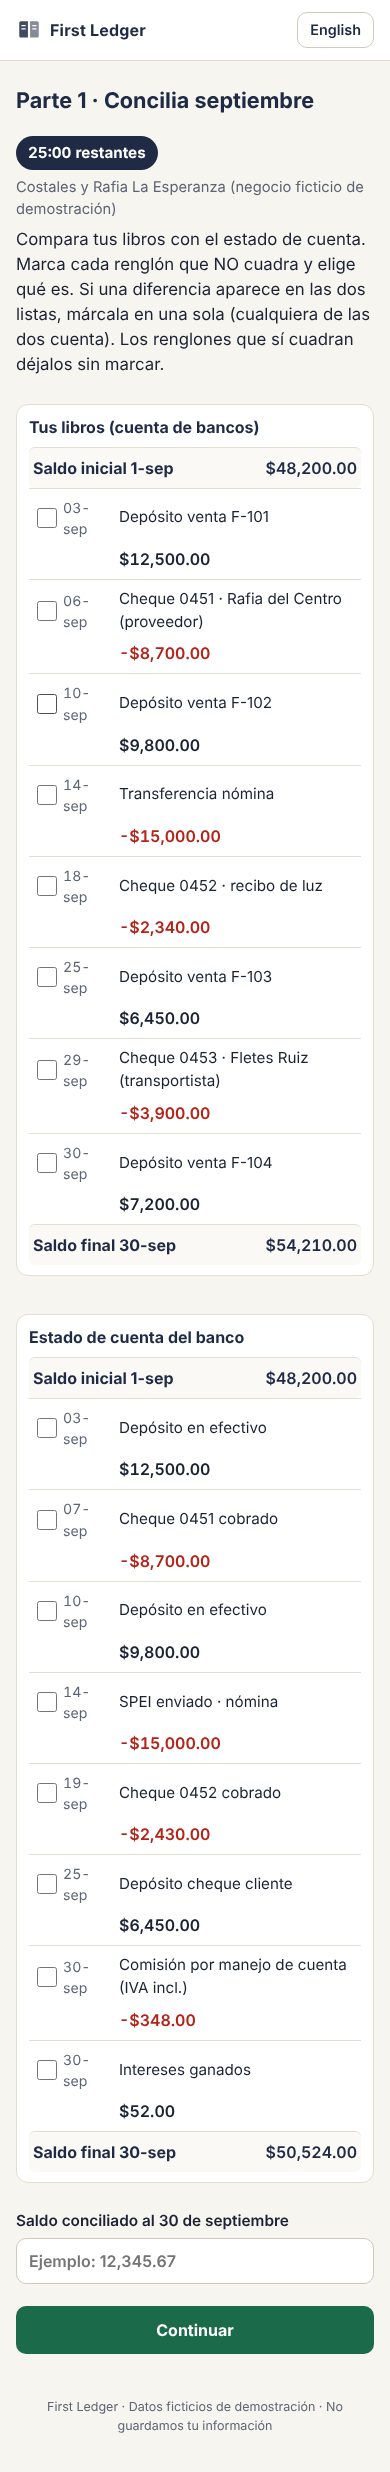
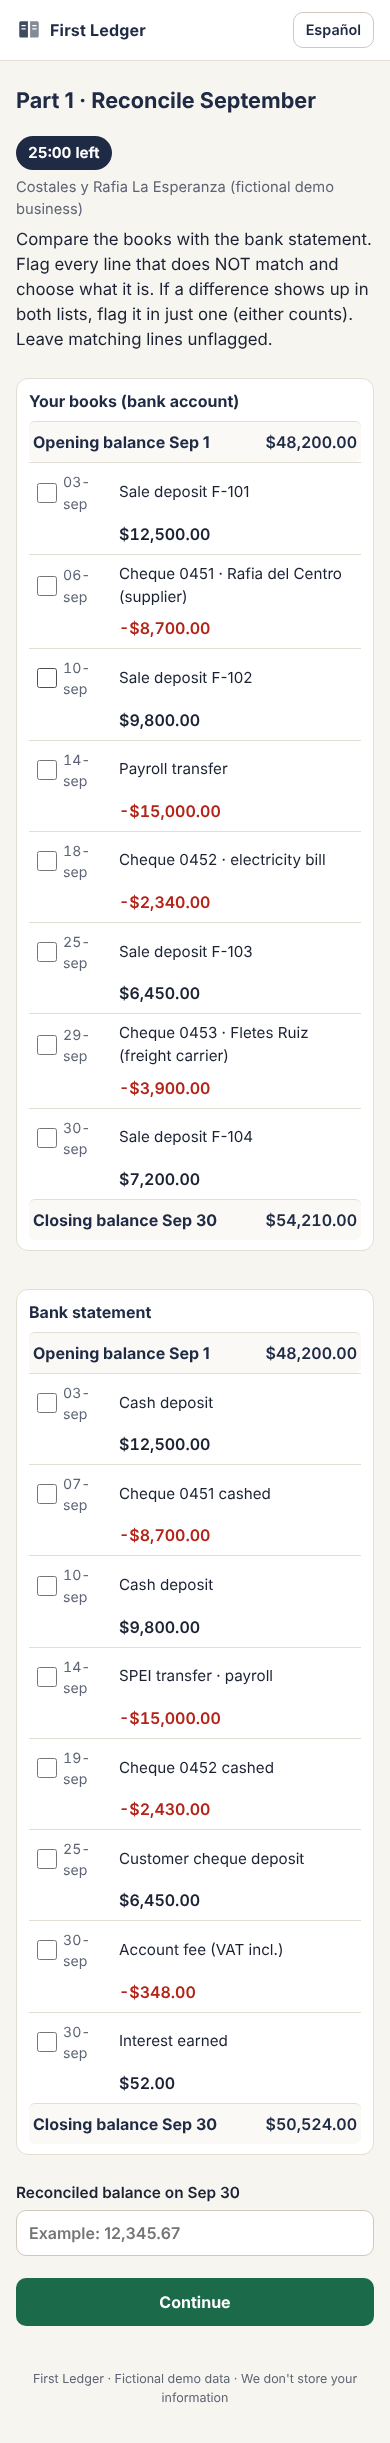
fix: English is the default UI language; docs and screenshots in English

diff --git a/components/lang.tsx b/components/lang.tsx
@@ -5,10 +5,10 @@ import { STRINGS, type Strings } from "@/lib/i18n";
 import type { Lang } from "@/lib/task";
 
 type Ctx = { lang: Lang; t: Strings; toggle: () => void };
-const LangCtx = createContext<Ctx>({ lang: "es", t: STRINGS.es, toggle: () => {} });
+const LangCtx = createContext<Ctx>({ lang: "en", t: STRINGS.en, toggle: () => {} });
 
 export function LangProvider({ children }: { children: React.ReactNode }) {
-  const [lang, setLang] = useState<Lang>("es");
+  const [lang, setLang] = useState<Lang>("en");
   useEffect(() => {
     try {
       const saved = localStorage.getItem("fl-lang");
@@ -20,7 +20,7 @@ export function LangProvider({ children }: { children: React.ReactNode }) {
   }, [lang]);
   const toggle = () =>
     setLang((l) => {
-      const next = l === "es" ? "en" : "es";
+      const next = l === "en" ? "es" : "en";
       try {
         localStorage.setItem("fl-lang", next);
       } catch {}

diff --git a/app/layout.tsx b/app/layout.tsx
@@ -11,7 +11,7 @@ export const viewport: Viewport = { width: "device-width", initialScale: 1 };
 
 export default function RootLayout({ children }: { children: React.ReactNode }) {
   return (
-    <html lang="es">
+    <html lang="en">
       <body>
         <LangProvider>{children}</LangProvider>
       </body>

diff --git a/docs/PERSONA.md b/docs/PERSONA.md
@@ -4,41 +4,41 @@
 
 Built from my User research (Ruth's interview), run in a fresh chat that had never seen the product:
 
-> **Ruth, 22**, accounting student in the State of Mexico. For years she kept the books for her family's sack business, with no contract and nothing on paper. She was ignored or rejected by companies that only looked at her CV and felt *"que no servía para esto de la contabilidad."* Uses her phone for everything, knows Excel basics, knows reconciliation in practice but maybe not every textbook term. Gets nervous with timers, reads fast and skips long text, **gives up quietly when she feels judged or confused.**
+> **Ruth, 22**, accounting student in the State of Mexico. For years she kept the books for her family's sack business, with no contract and nothing on paper. She was ignored or rejected by companies that only looked at her CV and felt she *"wasn't cut out for accounting."* Uses her phone for everything, knows Excel basics, knows reconciliation in practice but maybe not every textbook term. Gets nervous with timers, reads fast and skips long text, **gives up quietly when she feels judged or confused.**
 
-**Method:** phone screenshots (390 px) of every screen, in order: intro → part 1 empty → part 1 filled → twist empty → twist filled → AI disclosure → private result → share → signed review. The persona narrated each screen out loud in first person; then, out of character, logged each confusion.
+**Method:** the persona narrated in her own words (translated here); phone screenshots (390 px) of every screen, in order: intro → part 1 empty → part 1 filled → twist empty → twist filled → AI disclosure → private result → share → signed review. The persona narrated each screen out loud in first person; then, out of character, logged each confusion.
 
 ## Where she got lost
 
 | # | Screen | Confusion (Ruth's words) | Severity | Would quit? |
 |---|---|---|---|---|
-| 1 | Intro | "Cambio de app y ¿se me borra todo?" · "No guardamos nada… ¿cómo lo va a ver quien revisa?" | Med | No |
-| 2 | Part 1 | "¿En cuál lista? ¿En las dos?… ¿cuenta doble?" Two long lists stacked; big dark timer. | **High** | No (stalls) |
-| 3 | Part 1 filled | Dropdown options cut off. "¿Sí está contando el reloj?" | Med | No |
-| 4 | Twist | "Dice 'nuevo' saldo… ¿tiene que ser diferente? ¿Es trampa?" · "¿El botón Hablar graba mi voz? ¿Quién la oye?" | **High** | No (may answer wrong) |
-| 5 | Twist filled | "No sé si eso es suficiente explicación." | Low | No |
-| 6 | AI disclosure | "Sé honesto… suena a que ya sospechan de mí." · "¿La calculadora cuenta?" | Low–Med | No |
-| 7 | Private result | "¿No que no era calificación? Esto se ve como calificación." · "¿Me revisó una máquina?" · "¿Con quién lo comparto?" | **High** | Maybe |
-| 8 | Share | "¿¿Qué es esto?? Un choro de letras… parece virus o de esos mensajes de fraude." · "'Cualquier cambio se detecta' suena a que me están vigilando." | **High** | **Yes** |
-| 9 | Signed review | "¿Qué sigue? ¿Quién me contacta?" · "'¿Esto te dio información útil que un CV no te da?' ¿Me lo preguntan a mí?" | High (trust) | No |
+| 1 | Intro | "If I switch apps, does everything get erased?" · "Nothing is saved… so how will the reviewer see it?" | Med | No |
+| 2 | Part 1 | "Which list? Both?… does it count twice?" Two long lists stacked; big dark timer. | **High** | No (stalls) |
+| 3 | Part 1 filled | Dropdown options cut off. "Is the clock even running?" | Med | No |
+| 4 | Twist | "It says 'new' balance… does it have to be different? Is it a trick?" · "Does the Speak button record my voice? Who hears it?" | **High** | No (may answer wrong) |
+| 5 | Twist filled | "I don't know if that's enough of an explanation." | Low | No |
+| 6 | AI disclosure | "'Be honest'… sounds like they already suspect me." · "Does the calculator count?" | Low–Med | No |
+| 7 | Private result | "Wasn't this not a grade? It looks like a grade." · "Did a machine review me?" · "Who do I share it with?" | **High** | Maybe |
+| 8 | Share | "What is this?? A huge string of letters… it looks like a virus or one of those scam messages." · "'Any change is detected' sounds like they're watching me." | **High** | **Yes** |
+| 9 | Signed review | "What's next? Who contacts me?" · "'Did this give you information a CV doesn't?' Are they asking me?" | High (trust) | No |
 
 ## The worst one
 
-**Screen 8, the share step.** After doing all the work, Ruth was handed a huge, raw, encoded link, no clear recipient, and a sentence that sounded like an accusation. "Mantener privado" sat right next to it as the safe-looking exit. She wouldn't close anything; she'd just never send it. No reviewer would ever see her, and the product would repeat exactly the silence it claims to fix.
+**Screen 8, the share step.** After doing all the work, Ruth was handed a huge, raw, encoded link, no clear recipient, and a sentence that sounded like an accusation. "Keep it private" sat right next to it as the safe-looking exit. She wouldn't close anything; she'd just never send it. No reviewer would ever see her, and the product would repeat exactly the silence it claims to fix.
 
 ## What I fixed (commit `fix: persona test`)
 
 | Problem | Fix |
 |---|---|
-| **Raw link looked like a scam (worst)** | The encoded link is no longer shown. The candidate sees a short chip (`first-ledger…/review · 🔒`), a primary **"Enviar por WhatsApp"** button with a friendly pre-filled message, and "Copiar enlace" as a fallback. Same for the reviewer's reply. |
-| No clear recipient | "Mándalo a quien te envió esta prueba o a la persona que te va a revisar." |
-| Tamper note sounded like an accusation | "Tu evidencia va protegida: si alguien la cambia, se nota." |
-| Which list to flag | "Si una diferencia aparece en las dos listas, márcala en una sola (cualquiera de las dos cuenta)." The grader already accepted either side. |
-| "Nuevo saldo" implied it must change | "Saldo conciliado después del cambio (puede quedar igual)." |
-| Unsure how long to explain | "Con 2 o 3 frases basta." |
-| Does the voice get recorded? | "Solo se convierte en texto aquí; el audio no se guarda." |
-| Disclosure felt like suspicion; calculator? | "Cuéntanos qué herramientas usaste. Usar IA no te quita nada… La calculadora o Excel no cuentan como IA." |
-| "Correcto" looked like a grade | Pills now say "Coincide con lo esperado". |
+| **Raw link looked like a scam (worst)** | The encoded link is no longer shown. The candidate sees a short chip (`first-ledger…/review · 🔒`), a primary **"Send on WhatsApp"** button with a friendly pre-filled message, and "Copy link" as a fallback. Same for the reviewer's reply. |
+| No clear recipient | "Send it to whoever sent you this test, or to the person who will review you." |
+| Tamper note sounded like an accusation | "Your evidence is protected: if anyone changes it, it shows." |
+| Which list to flag | "If a difference shows up in both lists, flag it in just one (either counts)." The grader already accepted either side. |
+| "New balance" implied it must change | "Reconciled balance after the change (it may stay the same)." |
+| Unsure how long to explain | "2 or 3 sentences are enough." |
+| Does the voice get recorded? | "It only turns into text here; the audio isn't saved." |
+| Disclosure felt like suspicion; calculator? | "Tell us which tools you used. Using AI costs you nothing… A calculator or Excel doesn't count as AI." |
+| "Correct" looked like a grade | Pills now say "Matches expected". |
 | Reviewer-only question shown to the candidate | Removed from the candidate's final view. |
 
 ## Not fixed (logged for next iteration)

diff --git a/DECISIONS.md b/DECISIONS.md
@@ -12,7 +12,7 @@ A running log. Each session ends with: decisions updated, tomorrow's first move 
 - **No total score, no pass/fail.** Condition 1 forbids a universal score. The result shows item-by-item evidence and a human signs the decision.
 - **Timers record overruns instead of locking the candidate out.** Ruth told me she felt she "wasn't cut out for accounting" after being ignored. A hard lockout would recreate that feeling for nervous candidates. The reviewer sees the overrun and decides.
 - **Voice explanation with a text fallback.** Speech recognition isn't available in every browser (Firefox, some iPhones), and nobody should be blocked for their device.
-- **Bilingual, Spanish by default.** The users are Mexican; the demo is recorded in English.
+- **Bilingual.** English is the default (the course and demo are in English); one tap switches the whole app to Spanish for Mexican candidates and reviewers.
 
 **Tomorrow's first move:** run the mechanical test pass on the deployed URL, then the persona test.
 
@@ -32,7 +32,7 @@ A running log. Each session ends with: decisions updated, tomorrow's first move 
 
 **Persona:** Ruth, 22, built from my User interview (full log in `docs/PERSONA.md`).
 
-**Worst confusion:** the share step showed a huge raw encoded link that "parece virus o de esos mensajes de fraude", with no clear recipient. A quiet quitter would just never send it.
+**Worst confusion:** the share step showed a huge raw encoded link that "looks like a virus or one of those scam messages", with no clear recipient. A quiet quitter would just never send it.
 
 **Decisions:**
 - Hide the raw link. Primary action is **WhatsApp with a friendly pre-filled message**; copy is the fallback. That's how Mexican small businesses actually talk.
@@ -49,3 +49,5 @@ A running log. Each session ends with: decisions updated, tomorrow's first move 
 **Fix:** default to the current stable `gemini-3.8-flash`, then `gemini-3.6-flash` if that one fails; `GEMINI_MODEL` can still override. Each failed model is logged (model + HTTP status, never the key) so the next silent fallback shows up in Vercel Logs.
 
 **Lesson:** a fallback that is labeled honestly is good for users, but it hid a production bug from me. Fallbacks need a log line.
+
+**Language default:** the app shipped Spanish-first. The course is in English, so English is now the default and Spanish is one tap away (the choice is remembered per browser).

diff --git a/docs/IMPLEMENTATION_PROMPT.md b/docs/IMPLEMENTATION_PROMPT.md
@@ -2,7 +2,7 @@
 
 > Generated from `docs/PACKET.md`. Give this to the coding agent as-is.
 
-You are building **First Ledger**, a Next.js 15 (App Router, TypeScript, React 19, plain CSS) web app deployed on Vercel. Read `docs/PACKET.md` first; the Blueprint conditions in section 10 are hard constraints. No database, no auth, no stored personal data. Bilingual UI (ES default, EN toggle).
+You are building **First Ledger**, a Next.js 15 (App Router, TypeScript, React 19, plain CSS) web app deployed on Vercel. Read `docs/PACKET.md` first; the Blueprint conditions in section 10 are hard constraints. No database, no auth, no stored personal data. Bilingual UI (EN default, ES toggle).
 
 ## Features (build in this order, one commit each)
 
